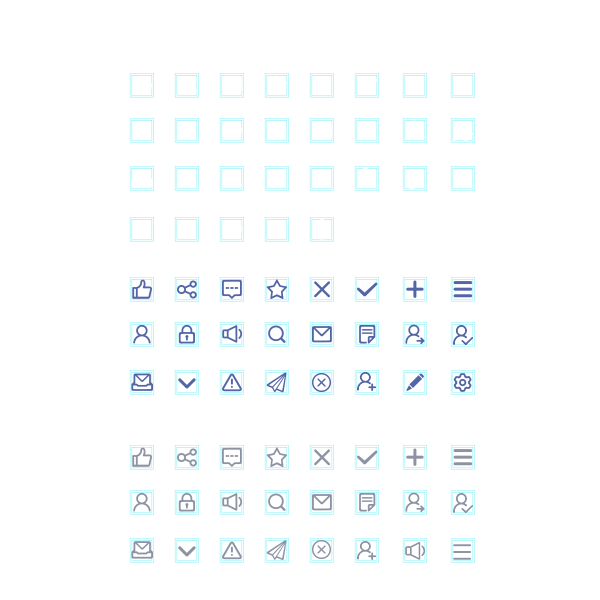
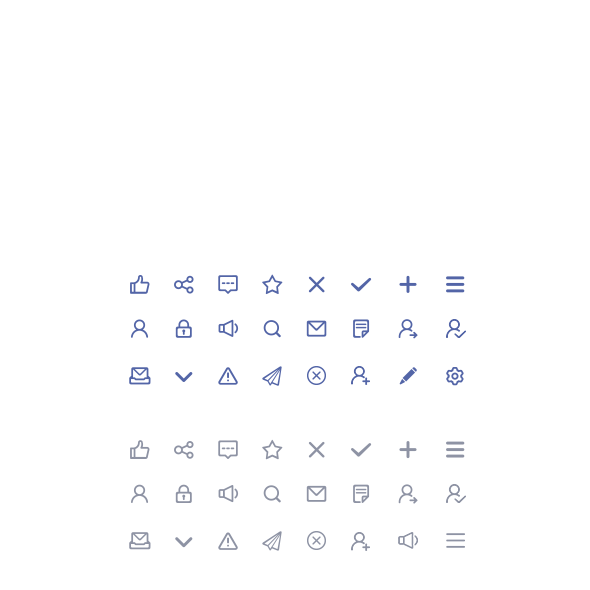
修改页面样式及ICON修改

diff --git a/views/yzyw/publish/index.tpl.htm b/views/yzyw/publish/index.tpl.htm
@@ -3,6 +3,7 @@
 <div class="aw-container-wrap">
 	<div class="container aw-publish">
 		<div class="row">
+			<form action="publish/ajax/<?php if ($this->question_info['question_id']) { ?>modify<?php } else { ?>publish<?php } ?>_question/" method="post" id="question_form" onsubmit="return false;">
 			<div class="aw-content-wrap clearfix">
 				<div class="col-sm-12 col-md-9 aw-main-content">
 					<!-- tab 切换 -->
@@ -20,7 +21,7 @@
 						<h2 class="hidden-xs"><i class="icon icon-ask"></i> <?php _e('发起'); ?></h2>
 					</ul>
 					<!-- end tab 切换 -->
-					<form action="publish/ajax/<?php if ($this->question_info['question_id']) { ?>modify<?php } else { ?>publish<?php } ?>_question/" method="post" id="question_form" onsubmit="return false;">
+
 						<input type="hidden" name="post_hash" value="<?php echo new_post_hash(); ?>" />
 						<input type="hidden" name="attach_access_key" value="<?php echo $this->attach_access_key; ?>" />
 						<input type="hidden" name="question_id" id="question_id" value="<?php echo $this->question_info['question_id']; ?>" />
@@ -59,6 +60,8 @@
 									</div>
 								</div>
 
+
+
 							</div>
 							<div class="mod-footer clearfix">
 								<?php if (get_setting('integral_system_enabled') == 'Y') { ?><a href="integral/rule/" target="_blank">[<?php _e('积分规则'); ?>]</a><?php } ?>
@@ -77,7 +80,7 @@
 								<a class="btn btn-large btn-success btn-publish-submit commen-btn" id="publish_submit" onclick="AWS.ajax_post($('#question_form')); return false;"><?php _e('发布'); ?></a>
 							</div>
 						</div>
-					</form>
+
 				</div>
 				<!-- 侧边栏 -->
 				<div class="col-sm-12 col-md-3 aw-side-bar hidden-xs">
@@ -139,6 +142,7 @@
 				</div>
 				<!-- end 侧边栏 -->
 			</div>
+			</form>
 		</div>
 	</div>
 </div>

diff --git a/static/css/yzyw/yzyw.css b/static/css/yzyw/yzyw.css
@@ -1,3 +1,13 @@
+.topic-tag .text {
+  background-color: #303045;
+}
+.topic-tag .text:hover {
+  background-color: #4a4f54;
+}
+.aw-item:hover {
+  background-color: #eee;
+  cursor: pointer;
+}
 .commen-btn,
 .btn-success,
 .btn-blue {
@@ -830,19 +840,28 @@
 .all-stared-topic {
   margin: 20px;
 }
-.my-icon {
+.before-none:before {
+  content: none;
+}
+.my-icon,
+.icon {
   display: inline-block;
-  width: 19px;
-  height: 19px;
+  width: 20px;
+  height: 20px;
   margin-bottom: -4px;
   background: url("img/ico/icon-emp.png") no-repeat;
   line-height: 18px;
 }
-.share {
-  background-position: -177px -448px;
+.share,
+.icon-share {
+  background-position: -174px -440px;
+}
+.share:before,
+.icon-share:before {
+  content: none;
 }
 .guanzhu {
-  background-position: -357px -541px;
+  background-position: -351px -530px;
 }
 .guanzhu-white {
   background-position: -357px -169px;
@@ -852,4 +871,46 @@
 }
 .sixin-white {
   background-position: -267px -169px;
+}
+.icon-agree {
+  background-position: -130px -440px;
+}
+.icon-agree:before {
+  content: none;
+}
+.icon-comment {
+  background-position: -218px -440px;
+}
+.icon-comment:before {
+  content: none;
+}
+.icon-favor {
+  background-position: -262px -440px;
+}
+.icon-favor:before {
+  content: none;
+}
+.icon-report {
+  background-position: -217px -532px;
+}
+.icon-report:before {
+  content: none;
+}
+.icon-draft {
+  background-position: -353px -484px;
+}
+.icon-draft:before {
+  content: none;
+}
+.icon-check {
+  background-position: -445px -484px;
+}
+.icon-check:before {
+  content: none;
+}
+.icon-invite {
+  background-position: -130px -532px;
+}
+.icon-invite:before {
+  content: none;
 }

diff --git a/static/css/yzyw/yzyw.less b/static/css/yzyw/yzyw.less
@@ -1,3 +1,19 @@
+.topic-tag{
+    .text{
+        background-color: #303045;
+        &:hover{
+            background-color: #4a4f54;
+        }
+    }
+}
+
+.aw-item{
+    &:hover{
+        background-color: #eee;
+        cursor: pointer;
+    }
+}
+
 @gray-color: #303045;
 .commen-btn,
 .btn-success,
@@ -930,21 +946,29 @@
 .all-stared-topic {
     margin: 20px;
 }
+
+.before-none{
+    &:before{
+        content: none;
+    }
+}
+
 // Start Icon
-.my-icon {
+.my-icon ,.icon{
     display: inline-block;
-    width: 19px;
-    height: 19px;
+    width: 20px;
+    height: 20px;
     margin-bottom: -4px;
     // border: solid;
     background: url("img/ico/icon-emp.png") no-repeat;
     line-height: 18px;
 }
-.share {
-    background-position: -177px -448px;
+.share,.icon-share {
+    background-position: -174px -440px;
+    .before-none;
 }
 .guanzhu {
-    background-position: -357px -541px;
+    background-position: -351px -530px;
 }
 .guanzhu-white {
     background-position: -357px -169px;
@@ -954,5 +978,38 @@
 }
 .sixin-white {
     background-position: -267px -169px;
+}
+
+
+.icon-agree{
+    background-position: -130px -440px;
+    .before-none;
+}
+.icon-comment{
+    background-position: -218px -440px;
+    .before-none;
+}
+
+.icon-favor{
+    background-position: -262px -440px;
+    .before-none;
+}
+
+.icon-report{
+    background-position: -217px -532px;
+    .before-none;
+}
+
+.icon-draft{
+    background-position: -353px -484px;
+    .before-none;
+}
+.icon-check{
+    background-position: -445px -484px;
+    .before-none;
+}
+.icon-invite{
+    background-position: -130px -532px;
+    .before-none;
 }
 // End Icon

diff --git a/views/yzyw/explore/ajax/list.tpl.htm b/views/yzyw/explore/ajax/list.tpl.htm
@@ -54,9 +54,11 @@
                 &nbsp; &nbsp;
                 <?php if($val['topics']) _e("来自");?>
                 <?php foreach($val['topics'] AS $tkey=>$tval) {?>
+                    <?php if($tkey < 6) {?>
                     <span>
                         <?php _e($tval['topic_title']);?>
                     </span>
+                    <?php }?>
                 <?php }?>
                 <!-- •
                 <?php _e('%s 人关注', $val['focus_count']); ?>
@@ -130,9 +132,11 @@
                 &nbsp; &nbsp;
                 <?php if($val['topics']) _e("来自");?>
                 <?php foreach($val['topics'] AS $tkey=>$tval) {?>
+                    <?php if($tkey < 4) {?>
                     <span>
                         <?php _e($tval['topic_title']);?>
                     </span>
+                    <?php }?>
                 <?php }?>
                 <!-- •
                 <?php _e('%s 人关注', $val['focus_count']); ?>
@@ -204,9 +208,11 @@
                 &nbsp; &nbsp;
                 <?php if($val['topics']) _e("来自");?>
                 <?php foreach($val['topics'] AS $tkey=>$tval) {?>
+                    <?php if($tkey < 6) {?>
                     <span>
                         <?php _e($tval['topic_title']);?>
                     </span>
+                    <?php }?>
                 <?php }?>
                 <!-- •
                 <?php _e('%s 个评论', $val['comments']); ?>
